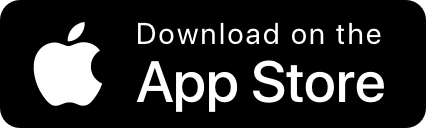
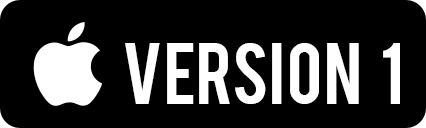
Edit website

Changed region(s): [[0.2746, 0.1562, 0.946, 0.875]]

diff --git a/Snap-video/index.html b/Snap-video/index.html
@@ -79,7 +79,7 @@
                         <img src="img/store.png" />
                     </a>
                     <a href="https://goo.gl/hVmziF" class="store-banner app-store">
-                        <img src="img/store.png" />
+                        <img src="img/store2.png" />
 						</a>
 						 <br />
                     <a href="https://goo.gl/BrC7bs " class="store-banner app-store">
